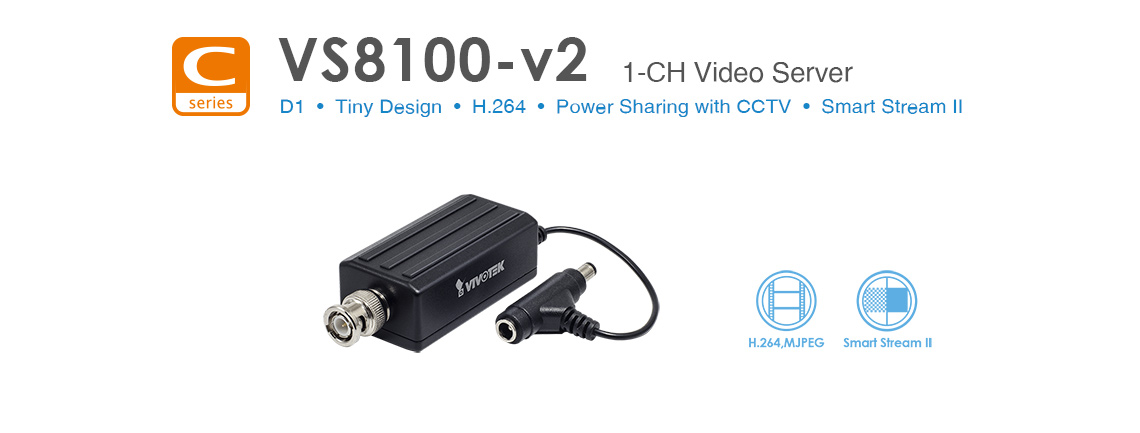
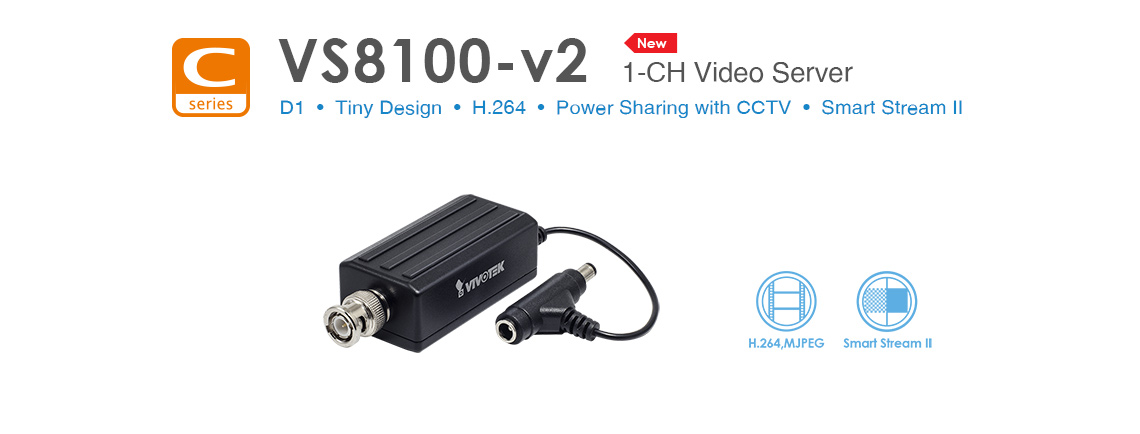
Updates VU requests

diff --git a/poe.html b/poe.html
@@ -33,6 +33,7 @@
   .tos-wrapper.tos-fill .tos-slide.tos-image > img { max-width: none; max-height: 100%; min-width: none; min-height: 100%;}
   .jplist-grid-view .list-item .block .dl_btn { display: block; height: 3.8em;}
   .jplist-grid-view .list-item .block .dl_btn_qig, .jplist-grid-view .list-item .block .dls { display: block; height: 3.8em;}
+  .jplist_pro_em span .new { background-color: #FB1414;}
   .jplist_pro_em span.mbps1000 {
   background-color: #0070c0;
   }
@@ -250,10 +251,10 @@ to improve your experience.
             <a href="/box-cameras/#type-filter:path=.box"><img src="/image/all/nav/box.jpg" alt="VIVOTEK Box Cameras" class="inline_img"></a>
             <p class="img_description">Box <span>Cameras</span></p>
            </div>
-           <div class="col_3">
+           <!-- <div class="col_3">
             <a href="/mini-box-cameras/#type-filter:path=.minibox"><img src="/image/all/nav/mini_box.jpg" alt="VIVOTEK " class="inline_img">
             <p class="img_description">Mini Box <span>Cameras</span></p></a>
-           </div>
+           </div> -->
            <div class="col_3">
             <a href="/bullet-cameras/#type-filter:path=.bullet"><img src="/image/all/nav/bullet.jpg" alt="VIVOTEK Bullet Cameras" class="inline_img">
             <p class="img_description">Bullet <span>Cameras</span></p></a>
@@ -289,6 +290,7 @@ to improve your experience.
            <div class="col_3">
             <a href="/network-cameras/#type-filter:path=.solution-kit"><img src="/image/all/nav/solution-kit.jpg" alt="Solution Kit" class="inline_img">
             <p class="img_description">Solution Kit</p></a>
+            <br>
            </div>
            <div class="col_3">
             <a href="/models-without-sd-card-slot/"><img src="/image/all/nav/models_without_sd_card_slot.jpg" alt="VIVOTEK Camera Application" class="inline_img">
@@ -481,8 +483,8 @@ to improve your experience.
             <p class="img_description"><span>IP Video System</span> Design Tool</p></a>
            </div>
            <div class="col_3">
-            <a href="/autodesk_revit/" target="_blank"><img src="/image/all/nav/autodesk_revit.jpg" alt="Autodesk Revit" class="inline_img">
-            <p class="img_description"><span>Autodesk&reg; Revit&reg;</span> Design Tool</p></a>
+            <a href="/bimobject/" target="_blank"><img src="/image/all/nav/bimobject.png" alt="BIMobject®" class="inline_img">
+            <p class="img_description"><span>BIMobject®</span></p></a>
            </div>
            <div class="col_3">
             <a href="/device-pack/" target="_blank"><img src="/image/all/nav/device-pack.jpg" alt="VIVOTEK Device Pack" class="inline_img">
@@ -623,7 +625,7 @@ to improve your experience.
             <ul>
                   <li><a href="http://w3.vivotek.com/design-tool/" target="_blank">VIVOTEK Design Tool</a></li>
                   <li><a href="/ip-video-system-design-tool/" target="_blank">IP Video System Design Tool</a></li>
-                  <li><a href="/autodesk_revit/" target="_blank">Autodesk<sup>&reg;</sup> Revit<sup>&reg;</sup> Design Tool</a></li>
+                  <li><a href="/bimobject/" target="_blank">BIMobject®</a></li>
             </ul>
           </li>                
           <li class="blue_vivotek"><a href="https://rma.vivotek.com" target="_blank">Warranty &amp; RMA</a>

diff --git a/js/ProductsHide.js b/js/ProductsHide.js
@@ -95,12 +95,10 @@ function productsshide(maintype, pagetype) {
 								}
 							}
 							if (item.New == true) {
-								if (pagetype == "Products") {
-									var comingSpan = $(this).find('.h3.text-danger').text();
-									if (($(this).find('span').text().length <= 0) || comingSpan == "") {
-										var comsubobj = $(this).find("em");
-										comsubobj.append("<br><span class='new'>NEW</span>");
-									}
+								var comingSpan = $(this).find('.h3.text-danger').text();
+								if (($(this).find('span').text().length <= 0) || comingSpan == "") {
+									var comsubobj = $(this).find("em");
+									comsubobj.append("<br><span class='new'>NEW</span>");
 								}
 							}
 							if (item.removeNew == true) {

diff --git a/industrial-media-converter/index.html b/industrial-media-converter/index.html
@@ -33,6 +33,7 @@
   .tos-wrapper.tos-fill .tos-slide.tos-image > img { max-width: none; max-height: 100%; min-width: none; min-height: 100%;}
   .jplist-grid-view .list-item .block .dl_btn { display: block; height: 3.8em;}
   .jplist-grid-view .list-item .block .dl_btn_qig, .jplist-grid-view .list-item .block .dls { display: block; height: 3.8em;}
+  .jplist_pro_em span .new { background-color: #FB1414;}
   .jplist_pro_em span.mbps1000 {
   background-color: #0070c0;
   }

diff --git a/industrial-poe-injector/index.html b/industrial-poe-injector/index.html
@@ -33,6 +33,7 @@
   .tos-wrapper.tos-fill .tos-slide.tos-image > img { max-width: none; max-height: 100%; min-width: none; min-height: 100%;}
   .jplist-grid-view .list-item .block .dl_btn { display: block; height: 3.8em;}
   .jplist-grid-view .list-item .block .dl_btn_qig, .jplist-grid-view .list-item .block .dls { display: block; height: 3.8em;}
+  .jplist_pro_em span .new { background-color: #FB1414;}
   .jplist_pro_em span.mbps1000 {
   background-color: #0070c0;
   }

diff --git a/industrial-poe-switch/index.html b/industrial-poe-switch/index.html
@@ -33,6 +33,7 @@
   .tos-wrapper.tos-fill .tos-slide.tos-image > img { max-width: none; max-height: 100%; min-width: none; min-height: 100%;}
   .jplist-grid-view .list-item .block .dl_btn { display: block; height: 3.8em;}
   .jplist-grid-view .list-item .block .dl_btn_qig, .jplist-grid-view .list-item .block .dls { display: block; height: 3.8em;}
+  .jplist_pro_em span .new { background-color: #FB1414;}
   .jplist_pro_em span.mbps1000 {
   background-color: #0070c0;
   }

diff --git a/industrial_managed_poe_switch/index.html b/industrial_managed_poe_switch/index.html
@@ -33,6 +33,7 @@
   .tos-wrapper.tos-fill .tos-slide.tos-image > img { max-width: none; max-height: 100%; min-width: none; min-height: 100%;}
   .jplist-grid-view .list-item .block .dl_btn { display: block; height: 3.8em;}
   .jplist-grid-view .list-item .block .dl_btn_qig, .jplist-grid-view .list-item .block .dls { display: block; height: 3.8em;}
+  .jplist_pro_em span .new { background-color: #FB1414;}
   .jplist_pro_em span.mbps1000 {
   background-color: #0070c0;
   }

diff --git a/managed_switch/index.html b/managed_switch/index.html
@@ -33,6 +33,7 @@
   .tos-wrapper.tos-fill .tos-slide.tos-image > img { max-width: none; max-height: 100%; min-width: none; min-height: 100%;}
   .jplist-grid-view .list-item .block .dl_btn { display: block; height: 3.8em;}
   .jplist-grid-view .list-item .block .dl_btn_qig, .jplist-grid-view .list-item .block .dls { display: block; height: 3.8em;}
+  .jplist_pro_em span .new { background-color: #FB1414;}
   .jplist_pro_em span.mbps1000 {
   background-color: #0070c0;
   }

diff --git a/outdoor-poe-switch/index.html b/outdoor-poe-switch/index.html
@@ -33,6 +33,7 @@
   .tos-wrapper.tos-fill .tos-slide.tos-image > img { max-width: none; max-height: 100%; min-width: none; min-height: 100%;}
   .jplist-grid-view .list-item .block .dl_btn { display: block; height: 3.8em;}
   .jplist-grid-view .list-item .block .dl_btn_qig, .jplist-grid-view .list-item .block .dls { display: block; height: 3.8em;}
+  .jplist_pro_em span .new { background-color: #FB1414;}
   .jplist_pro_em span.mbps1000 {
   background-color: #0070c0;
   }

diff --git a/outdoor_power_box/index.html b/outdoor_power_box/index.html
@@ -33,6 +33,7 @@
   .tos-wrapper.tos-fill .tos-slide.tos-image > img { max-width: none; max-height: 100%; min-width: none; min-height: 100%;}
   .jplist-grid-view .list-item .block .dl_btn { display: block; height: 3.8em;}
   .jplist-grid-view .list-item .block .dl_btn_qig, .jplist-grid-view .list-item .block .dls { display: block; height: 3.8em;}
+  .jplist_pro_em span .new { background-color: #FB1414;}
   .jplist_pro_em span.mbps1000 {
   background-color: #0070c0;
   }

diff --git a/outdoor_surge_protector/index.html b/outdoor_surge_protector/index.html
@@ -33,6 +33,7 @@
   .tos-wrapper.tos-fill .tos-slide.tos-image > img { max-width: none; max-height: 100%; min-width: none; min-height: 100%;}
   .jplist-grid-view .list-item .block .dl_btn { display: block; height: 3.8em;}
   .jplist-grid-view .list-item .block .dl_btn_qig, .jplist-grid-view .list-item .block .dls { display: block; height: 3.8em;}
+  .jplist_pro_em span .new { background-color: #FB1414;}
   .jplist_pro_em span.mbps1000 {
   background-color: #0070c0;
   }

diff --git a/poe-accessories/index.html b/poe-accessories/index.html
@@ -33,6 +33,7 @@
   .tos-wrapper.tos-fill .tos-slide.tos-image > img { max-width: none; max-height: 100%; min-width: none; min-height: 100%;}
   .jplist-grid-view .list-item .block .dl_btn { display: block; height: 3.8em;}
   .jplist-grid-view .list-item .block .dl_btn_qig, .jplist-grid-view .list-item .block .dls { display: block; height: 3.8em;}
+  .jplist_pro_em span .new { background-color: #FB1414;}
   .jplist_pro_em span.mbps1000 {
   background-color: #0070c0;
   }

diff --git a/poe-extender/index.html b/poe-extender/index.html
@@ -33,6 +33,7 @@
   .tos-wrapper.tos-fill .tos-slide.tos-image > img { max-width: none; max-height: 100%; min-width: none; min-height: 100%;}
   .jplist-grid-view .list-item .block .dl_btn { display: block; height: 3.8em;}
   .jplist-grid-view .list-item .block .dl_btn_qig, .jplist-grid-view .list-item .block .dls { display: block; height: 3.8em;}
+  .jplist_pro_em span .new { background-color: #FB1414;}
   .jplist_pro_em span.mbps1000 {
   background-color: #0070c0;
   }
